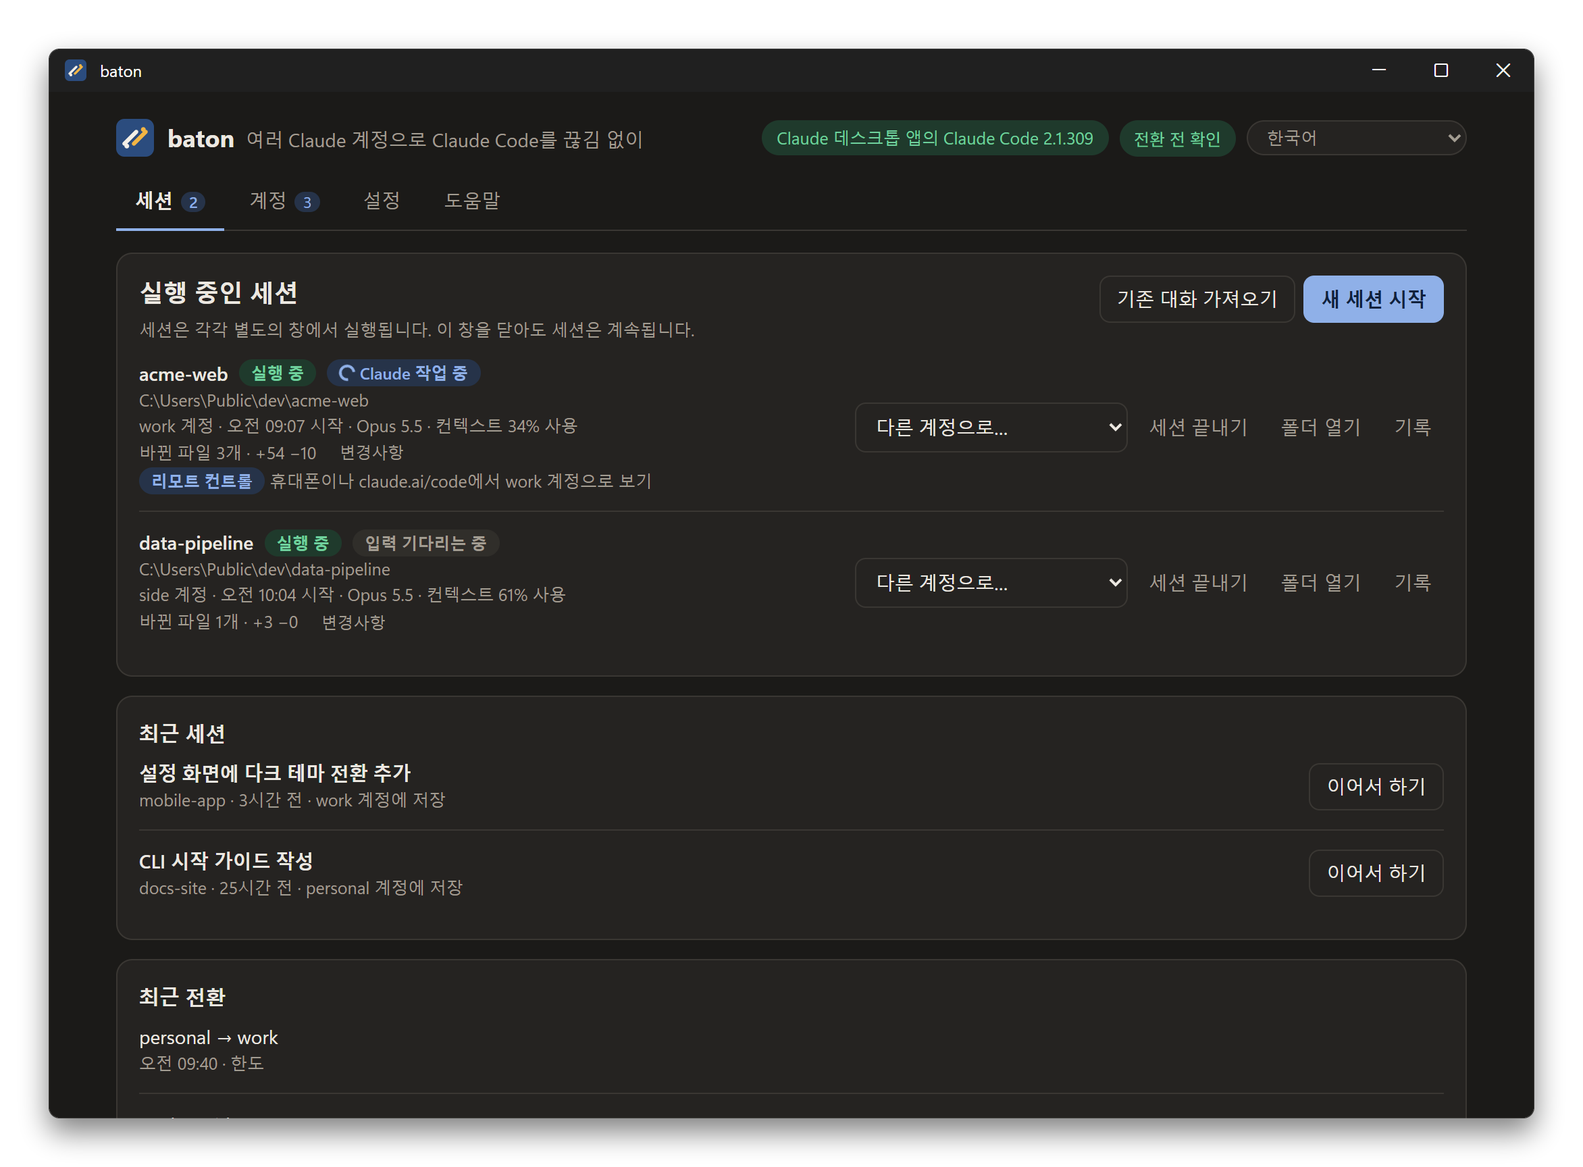
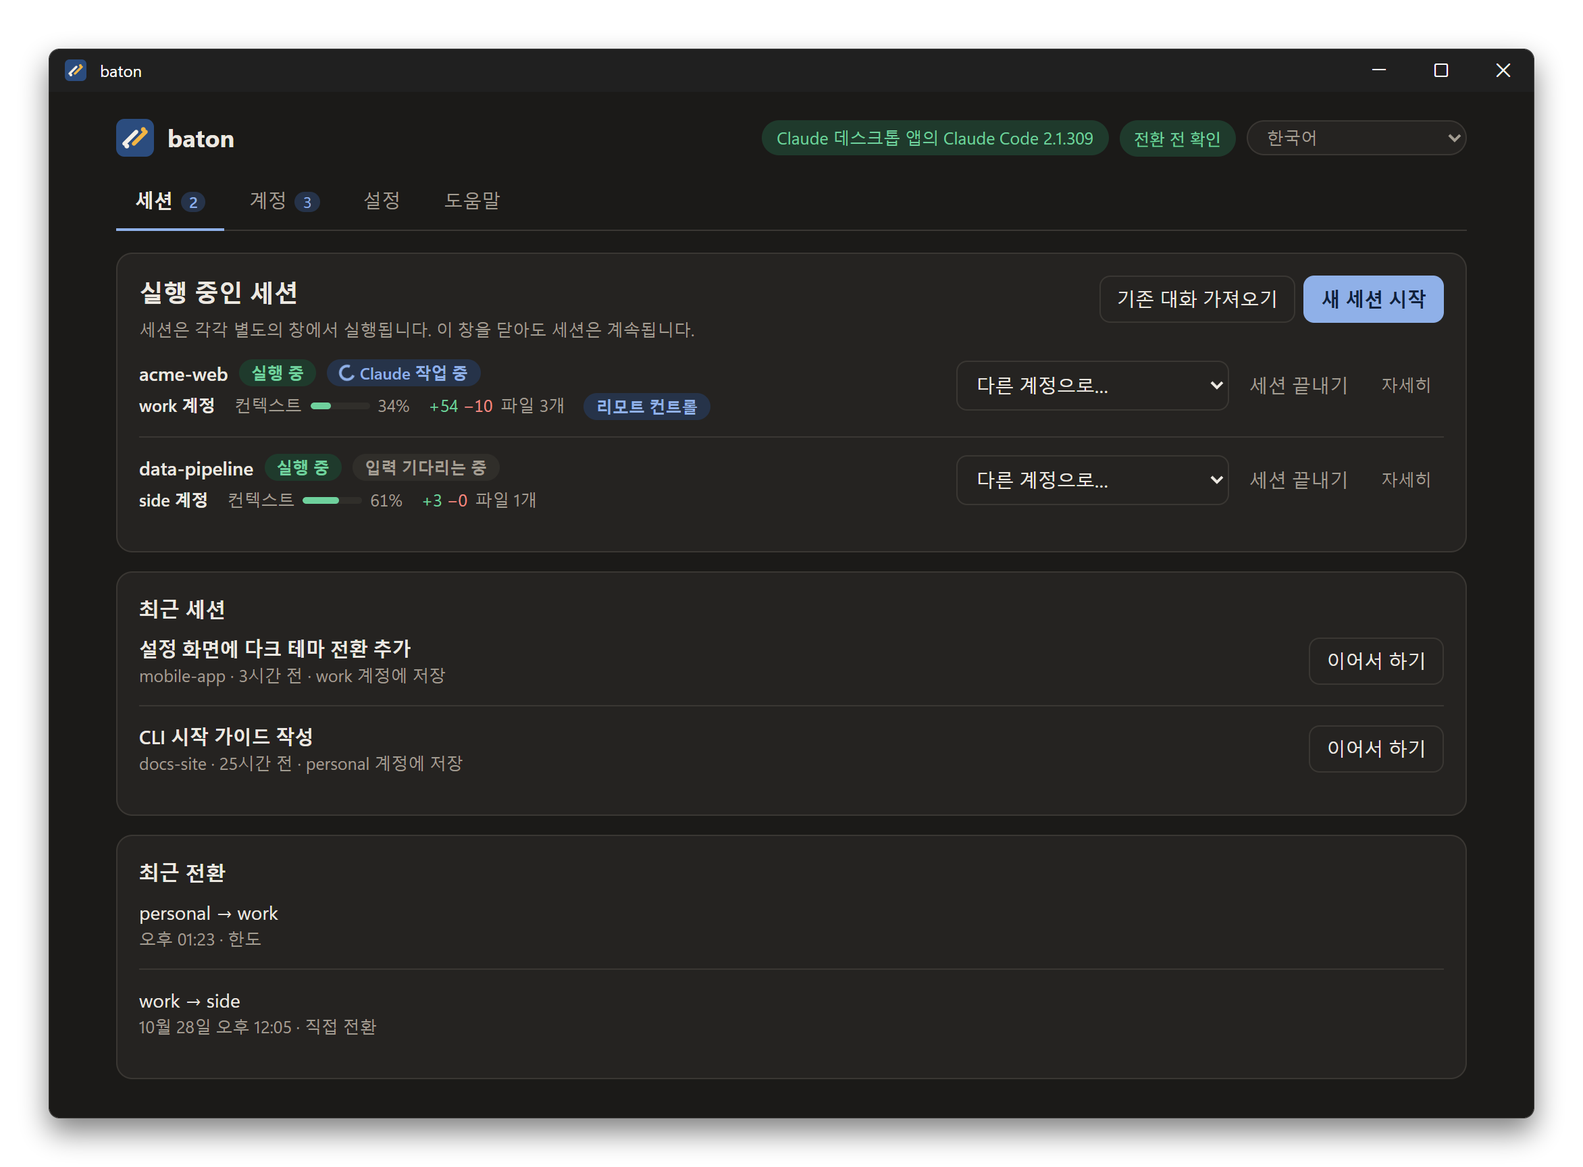
baton 0.5.2: interface update

diff --git a/internal/gui/web/app.js b/internal/gui/web/app.js
@@ -4,7 +4,6 @@
 
 const T = {
   ko: {
-    tagline: '여러 Claude 계정으로 Claude Code를 끊김 없이',
     tab_sessions: '세션', tab_accounts: '계정', tab_settings: '설정', tab_help: '도움말',
     claude_desktop: 'Claude 데스크톱 앱의 Claude Code {v}', claude_cli: 'Claude Code {v}', claude_checking: 'Claude Code 확인 중…',
     claude_missing: 'Claude Code 없음',
@@ -34,11 +33,11 @@ const T = {
     // session details
     cl_busy: 'Claude 작업 중', cl_idle: '입력 기다리는 중', cl_waiting: '세션 창에서 확인 필요',
     cl_waiting_hint: '세션 창에서 답해야 계속됩니다: {w}', ctx: '컨텍스트 {p}% 사용',
-    ch_none: '바뀐 파일 없음', ch_n: '바뀐 파일 {n}개 · +{a} −{r}', ch_n1: '바뀐 파일 1개 · +{a} −{r}', ch_btn: '변경사항', ch_title: '{f}의 변경사항',
+    ch_none: '바뀐 파일 없음', ch_files: '파일 {n}개', ch_files1: '파일 1개', ch_btn: '변경사항', ch_title: '{f}의 변경사항',
     ch_norepo: 'git 저장소가 아닌 폴더라 변경사항을 볼 수 없습니다.', ch_nogit: 'git을 찾지 못했습니다. Git for Windows를 설치하면 변경사항을 볼 수 있습니다.',
     ch_note: '마지막 커밋 이후 이 폴더에서 바뀐 파일입니다(커밋하지 않은 것, 새 파일 포함).', ch_loading: '변경사항을 읽는 중…', ch_error: 'git이 변경사항을 읽지 못했습니다: {e}',
     gs_modified: '수정', gs_added: '추가', gs_deleted: '삭제', gs_renamed: '이름 바뀜', gs_untracked: '새 파일', gs_conflict: '충돌',
-    rc_on: '리모트 컨트롤', rc_short: '휴대폰이나 claude.ai/code에서 {a} 계정으로 보기', rc_where: '휴대폰의 Claude 앱이나 claude.ai/code에서 {a} 계정으로 로그인하면 이 세션이 보입니다. 계정이 바뀌면 바뀐 계정에서 보입니다.',
+    rc_on: '리모트 컨트롤', details_more: '자세히', details_less: '접기', d_path: '폴더', d_started: '시작', d_changes: '변경', ctx_short: '컨텍스트', rc_where: '휴대폰의 Claude 앱이나 claude.ai/code에서 {a} 계정으로 로그인하면 이 세션이 보입니다. 계정이 바뀌면 바뀐 계정에서 보입니다.',
     start_rc: '리모트 컨트롤 켜기', start_rc_hint: '휴대폰의 Claude 앱이나 claude.ai/code에서 이 세션을 보고 이어서 쓸 수 있습니다. 세션이 실행 중인 계정으로 로그인해야 보이고, 계정이 바뀌면 그 계정에서 다시 켜집니다.',
     set_rc: '새 세션에서 리모트 컨트롤 켜기를 기본으로',
     trust_q: '이 폴더를 신뢰하나요?', trust_body: 'Claude Code가 이 폴더의 파일을 읽고 고치고 명령을 실행할 수 있게 됩니다. 믿을 수 있는 폴더일 때만 체크하세요.',
@@ -210,7 +209,6 @@ const T = {
     ago_now: '방금', ago_min: '{n}분 전', ago_hour: '{n}시간 전', ago_day: '{n}일 전',
   },
   en: {
-    tagline: 'Keep Claude Code going across your Claude accounts',
     tab_sessions: 'Sessions', tab_accounts: 'Accounts', tab_settings: 'Settings', tab_help: 'Help',
     claude_desktop: 'Claude Code {v} from the Claude desktop app', claude_cli: 'Claude Code {v}', claude_checking: 'Checking Claude Code…',
     claude_missing: 'Claude Code not found',
@@ -238,11 +236,11 @@ const T = {
     recent_sessions: 'Recent sessions', recent_sessions_none: 'Ended sessions show up here.', continue_btn: 'Continue',
     cl_busy: 'Claude is working', cl_idle: 'Waiting for you', cl_waiting: 'Needs an answer in the session window',
     cl_waiting_hint: 'Answer in the session window to go on: {w}', ctx: 'context {p}% used',
-    ch_none: 'No changed files', ch_n: '{n} changed files · +{a} −{r}', ch_n1: '1 changed file · +{a} −{r}', ch_btn: 'Changes', ch_title: 'Changes in {f}',
+    ch_none: 'No changed files', ch_files: '{n} files', ch_files1: '1 file', ch_btn: 'Changes', ch_title: 'Changes in {f}',
     ch_norepo: 'This folder is not a git repository, so there are no changes to show.', ch_nogit: 'git was not found. Install Git for Windows to see changes.',
     ch_note: 'Files changed in this folder since the last commit (uncommitted work, new files included).', ch_loading: 'Reading changes…', ch_error: 'git could not read the changes: {e}',
     gs_modified: 'modified', gs_added: 'added', gs_deleted: 'deleted', gs_renamed: 'renamed', gs_untracked: 'new', gs_conflict: 'conflict',
-    rc_on: 'Remote Control', rc_short: 'see it on your phone or claude.ai/code as {a}', rc_where: 'Sign in to the Claude app on your phone or to claude.ai/code with the account {a} to see this session. After a switch it shows on the new account.',
+    rc_on: 'Remote Control', details_more: 'Details', details_less: 'Less', d_path: 'Folder', d_started: 'Started', d_changes: 'Changes', ctx_short: 'Context', rc_where: 'Sign in to the Claude app on your phone or to claude.ai/code with the account {a} to see this session. After a switch it shows on the new account.',
     start_rc: 'Turn on Remote Control', start_rc_hint: 'See and continue this session from the Claude app on your phone or claude.ai/code. It shows for the account the session runs on, and comes back on for the next account after a switch.',
     set_rc: 'Turn on Remote Control for new sessions by default',
     trust_q: 'Do you trust this folder?', trust_body: 'Claude Code will be able to read and change files in it and run commands. Tick only for a folder you trust.',
@@ -407,7 +405,7 @@ const T = {
 };
 
 const S = { state: null, lang: 'ko', tab: null, lastJSON: '', onboardingShown: false, mainDirty: false,
-  ui: { doctorOut: null, doctorOk: true, doctorRunning: false, advancedOpen: false, signinPrivate: false, dismissed: {} } };
+  ui: { doctorOut: null, doctorOk: true, doctorRunning: false, advancedOpen: false, signinPrivate: false, dismissed: {}, runOpen: {} } };
 
 function t(key, vars) {
   let s = (T[S.lang] && T[S.lang][key]) ?? T.en[key] ?? key;
@@ -547,7 +545,6 @@ window.addEventListener('pagehide', () => {
 function render() {
   const st = S.state;
   if (!st) return;
-  document.getElementById('tagline').textContent = t('tagline');
   renderTop(st);
   renderTabs(st);
   renderBanners(st);
@@ -718,23 +715,74 @@ function runRow(st, r) {
   sel.classList.add('auto-w');
   const canSwitch = (r.state === 'running' || r.state === 'stopping' || waiting) && (others.length > 0 || retry);
   const asking = r.state === 'asking';
-  return h('div', { class: 'row' },
+  // At a glance: where, what state, which account, how full the context is,
+  // what changed and Remote Control. The rest waits behind "Details".
+  const open = !!S.ui.runOpen[r.run_id];
+  const toggle = h('button', { class: 'btn ghost details-btn', 'aria-expanded': String(open), text: open ? t('details_less') : t('details_more'),
+    onclick: () => { S.ui.runOpen[r.run_id] = !open; render(); } });
+  const facts = [
+    h('span', { class: 'fact strong', text: r.account ? t('run_on', { a: r.account }) : t('run_on_none') }),
+    r.context != null ? contextFact(r.context) : null,
+    changesFact(r),
+    r.remote_control ? h('span', { class: 'pill info', title: t('rc_where', { a: r.account || '' }), text: t('rc_on') }) : null,
+  ].filter(Boolean);
+  return h('div', { class: 'row run' + (open ? ' open' : '') },
     h('div', { class: 'grow' },
-      h('div', { class: 'title' }, baseName(r.cwd), runState(r), claudeState(r)),
-      h('div', { class: 'sub', title: r.cwd, text: `${r.cwd}` }),
-      h('div', { class: 'sub', text: [r.account ? t('run_on', { a: r.account }) : t('run_on_none'), t('run_since', { t: clock(r.started) }),
-        r.model, r.context != null ? t('ctx', { p: Math.round(r.context) }) : ''].filter(Boolean).join(' · ') }),
-      r.claude === 'waiting' && r.waiting_for ? h('div', { class: 'small', text: t('cl_waiting_hint', { w: r.waiting_for }) }) : null,
-      changesLine(r),
-      r.remote_control ? h('div', { class: 'sub', title: t('rc_where', { a: r.account || '' }) },
-        h('span', { class: 'pill info', text: t('rc_on') }), ' ', r.account ? t('rc_short', { a: r.account }) : '') : null,
-      asking ? h('div', { class: 'small', text: t('asking_hint') + ' ' + t('asking_stop_hint') }) : null,
-      waiting ? h('div', { class: 'small', text: r.account ? t('waiting_hint') : t('waiting_first') }) : null),
+      h('div', { class: 'title' }, h('span', { title: r.cwd, text: baseName(r.cwd) }), runState(r), claudeState(r)),
+      h('div', { class: 'facts' }, facts),
+      r.claude === 'waiting' && r.waiting_for ? h('div', { class: 'hint', text: t('cl_waiting_hint', { w: r.waiting_for }) }) : null,
+      asking ? h('div', { class: 'hint', text: t('asking_hint') + ' ' + t('asking_stop_hint') }) : null,
+      waiting ? h('div', { class: 'hint', text: r.account ? t('waiting_hint') : t('waiting_first') }) : null,
+      open ? runDetails(r) : null),
     h('div', { class: 'actions' }, canSwitch ? sel : null,
       // While the session window asks, baton reads only that window.
       asking || r.state === 'ending' ? null : h('button', { class: 'btn ghost danger', text: t('stop_btn'), onclick: () => confirmStop(r) }),
-      h('button', { class: 'btn ghost', text: t('open_folder'), onclick: () => api('open', { what: 'folder', run_id: r.run_id }).catch(showError) }),
-      h('button', { class: 'btn ghost', text: t('open_log'), onclick: () => api('open', { what: 'run', run_id: r.run_id }).catch(showError) })));
+      toggle));
+}
+
+// runDetails is what a session row shows once opened.
+function runDetails(r) {
+  const c = r.changes;
+  const line = (label, ...value) => h('div', { class: 'detail' }, h('span', { class: 'detail-label', text: label }), h('span', { class: 'detail-value' }, ...value));
+  return h('div', { class: 'details' },
+    line(t('d_path'), h('span', { class: 'mono', text: r.cwd })),
+    line(t('d_started'), clock(r.started) + (r.model ? ' · ' + r.model : '')),
+    c && c.error && c.error !== 'no_git' ? line(t('d_changes'), h('span', { class: 'err-inline', text: t('ch_error', { e: c.error }) })) : null,
+    c && c.repo && !c.error ? line(t('d_changes'), c.files ? changeCount(c.files, c.added, c.removed) : t('ch_none')) : null,
+    r.remote_control ? line(t('rc_on'), t('rc_where', { a: r.account || '' })) : null,
+    h('div', { class: 'actions start' },
+      c && c.repo && c.files ? h('button', { class: 'btn small-btn', text: t('ch_btn'), onclick: () => openChanges(r) }) : null,
+      h('button', { class: 'btn small-btn', text: t('open_folder'), onclick: () => api('open', { what: 'folder', run_id: r.run_id }).catch(showError) }),
+      h('button', { class: 'btn small-btn', text: t('open_log'), onclick: () => api('open', { what: 'run', run_id: r.run_id }).catch(showError) })));
+}
+
+// contextFact: how full the session's context window is, as a small meter.
+function contextFact(p) {
+  const pct = Math.max(0, Math.min(100, p));
+  const fill = h('span', { class: 'fill ' + (pct >= 90 ? 'bad' : pct >= 70 ? 'warn' : 'ok') });
+  fill.style.width = pct + '%'; // CSSOM: the page's CSP allows no inline style attributes
+  return h('span', { class: 'fact', title: t('ctx', { p: Math.round(pct) }) }, t('ctx_short'),
+    h('span', { class: 'meter mini', role: 'meter', 'aria-valuemin': '0', 'aria-valuemax': '100', 'aria-valuenow': String(Math.round(pct)), 'aria-label': t('ctx_short') }, fill),
+    h('span', { class: 'nums', text: Math.round(pct) + '%' }));
+}
+
+// changeNums: lines added in green, removed in red.
+function changeNums(added, removed) {
+  return h('span', { class: 'nums' }, added >= 0 ? h('span', { class: 'plus', text: '+' + added }) : null, ' ',
+    removed >= 0 ? h('span', { class: 'minus', text: '−' + removed }) : null);
+}
+
+function changeCount(n, added, removed) {
+  return h('span', {}, t(n === 1 ? 'ch_files1' : 'ch_files', { n }), ' ', changeNums(added, removed));
+}
+
+// changesFact: the folder's uncommitted changes; a click lists them.
+function changesFact(r) {
+  const c = r.changes;
+  if (!c || c.error || !c.repo) return null;
+  if (!c.files) return h('span', { class: 'fact', text: t('ch_none') });
+  return h('button', { class: 'fact link', title: t('ch_btn'), onclick: () => openChanges(r) }, changeNums(c.added, c.removed),
+    h('span', { class: 'muted', text: t(c.files === 1 ? 'ch_files1' : 'ch_files', { n: c.files }) }));
 }
 
 // claudeState: what Claude Code itself is doing in the session.
@@ -743,14 +791,6 @@ function claudeState(r) {
   if (r.claude === 'busy') return h('span', { class: 'pill info' }, h('span', { class: 'spin' }), ' ', t('cl_busy'));
   if (r.claude === 'waiting') return h('span', { class: 'pill warn', text: t('cl_waiting') });
   return h('span', { class: 'pill off', text: t('cl_idle') });
-}
-
-function changesLine(r) {
-  const c = r.changes;
-  if (!c || c.error === 'no_git' || (!c.repo && !c.error)) return null;
-  const text = c.error ? t('ch_error', { e: c.error }) : c.files ? t(c.files === 1 ? 'ch_n1' : 'ch_n', { n: c.files, a: c.added, r: c.removed }) : t('ch_none');
-  return h('div', { class: 'sub changes' }, h('span', { text }),
-    c.repo && c.files ? h('button', { class: 'btn ghost small-btn', text: t('ch_btn'), onclick: () => openChanges(r) }) : null);
 }
 
 // openChanges lists a session's changed files, the way the desktop app's
@@ -766,12 +806,11 @@ async function openChanges(r) {
   if (!c.repo) { body.replaceChildren(h('p', { class: 'muted', text: t('ch_norepo') })); return; }
   if (!c.files.length) { body.replaceChildren(h('p', { class: 'muted', text: t('ch_none') })); return; }
   const cls = { modified: 'info', added: 'ok', untracked: 'ok', deleted: 'bad', renamed: 'info', conflict: 'warn' };
-  body.replaceChildren(h('p', { class: 'small', text: t(c.files.length === 1 ? 'ch_n1' : 'ch_n', { n: c.files.length, a: c.added, r: c.removed }) }),
+  body.replaceChildren(h('p', { class: 'small' }, changeCount(c.files.length, c.added, c.removed)),
     h('div', { class: 'list tall' }, c.files.map((f) => h('div', { class: 'item change' },
       h('span', { class: 'pill ' + (cls[f.status] || 'off'), text: t('gs_' + f.status) }),
       h('span', { class: 'grow mono', text: f.path }),
-      h('span', { class: 'small nums' }, f.added >= 0 ? h('span', { class: 'plus', text: '+' + f.added }) : null, ' ',
-        f.removed >= 0 ? h('span', { class: 'minus', text: '−' + f.removed }) : null)))));
+      h('span', { class: 'small' }, changeNums(f.added, f.removed))))));
 }
 
 function confirmStop(r) {

diff --git a/internal/gui/web/app.css b/internal/gui/web/app.css
@@ -205,7 +205,6 @@ details > summary { cursor: pointer; font-weight: 600; }
 .meter .fill { position: absolute; left: 0; top: 0; bottom: 0; border-radius: 4px; background: var(--ok); }
 .meter .fill.warn { background: var(--warn); }
 .meter .fill.bad { background: var(--bad); }
-.sub.changes { display: flex; align-items: center; gap: 8px; }
 button.btn.small-btn { padding: 1px 8px; font-size: 12px; }
 .list .item.change { align-items: center; }
 .nums { white-space: nowrap; font-variant-numeric: tabular-nums; }
@@ -213,3 +212,21 @@ button.btn.small-btn { padding: 1px 8px; font-size: 12px; }
 .nums .minus { color: var(--bad); }
 .tip.warn-tip { border-left: 3px solid var(--warn); }
 .tip.ok-tip { background: var(--ok-soft); }
+/* A session row: one line of facts; the rest opens with "Details". */
+.row.run { align-items: flex-start; flex-wrap: wrap; row-gap: 8px; }
+.row.run > .grow { flex: 1 1 320px; }
+.row.run > .actions { margin-left: auto; padding-top: 1px; }
+.facts { display: flex; flex-wrap: wrap; align-items: center; gap: 4px 14px; margin-top: 4px; font-size: 12.5px; color: var(--muted); }
+.fact { display: inline-flex; align-items: center; gap: 6px; white-space: nowrap; }
+.fact.strong { color: var(--text); font-weight: 600; }
+button.fact.link { font: inherit; color: inherit; background: none; border: 0; padding: 0; cursor: pointer; border-radius: 4px; }
+button.fact.link:hover .muted { color: var(--text); text-decoration: underline; }
+.meter.mini { display: inline-block; width: 44px; height: 5px; }
+.hint { font-size: 12.5px; margin-top: 6px; padding: 4px 10px; border-radius: 6px; background: var(--warn-soft); color: var(--text); }
+.details { margin-top: 10px; padding: 10px 12px; border-radius: 8px; background: var(--off-soft); font-size: 12.5px; display: grid; gap: 6px; }
+.detail { display: grid; grid-template-columns: 7em 1fr; gap: 8px; align-items: baseline; }
+.detail-label { color: var(--muted); }
+.detail-value { min-width: 0; }
+.details .actions { margin-top: 2px; }
+button.btn.details-btn { font-size: 12.5px; }
+.err-inline { color: var(--bad); }

diff --git a/internal/gui/web/index.html b/internal/gui/web/index.html
@@ -11,7 +11,7 @@
 <body>
 <div id="app" class="app">
   <header class="top">
-    <div class="brand"><img src="/icon.svg" alt="" width="28" height="28"><div><b>baton</b><span id="tagline"></span></div></div>
+    <div class="brand"><img src="/icon.svg" alt="" width="28" height="28"><b>baton</b></div>
     <div class="top-right" id="topbar"></div>
   </header>
   <nav class="tabs" id="tabs" role="tablist"></nav>

diff --git a/cmd/baton/main.go b/cmd/baton/main.go
@@ -19,7 +19,7 @@ import (
 )
 
 // version is set at build time: -ldflags "-X main.version=..."
-var version = "0.5.1-dev"
+var version = "0.5.2-dev"
 
 const usageText = `baton - continue a Claude Code session on your other accounts when one hits its usage limit
 

diff --git a/README.ko.md b/README.ko.md
@@ -8,7 +8,7 @@
 쓰던 계정이 사용 한도에 걸리면, baton이 로그인해 둔 다음 계정에서 *같은 대화*를 이어 갑니다.
 내용을 복사하거나 처음부터 다시 설명할 필요가 없습니다.
 
-[![Release](https://img.shields.io/badge/release-v0.5.1-2b4c7e)](../../releases/latest)
+[![Release](https://img.shields.io/badge/release-v0.5.2-2b4c7e)](../../releases/latest)
 ![Windows 10 | 11](https://img.shields.io/badge/Windows-10%20%7C%2011-0078D6)
 ![x64 | arm64](https://img.shields.io/badge/arch-x64%20%7C%20arm64-555)
 ![Go](https://img.shields.io/badge/Go-1.27-00ADD8?logo=go&logoColor=white)
@@ -153,7 +153,7 @@ sequenceDiagram
 들어 있습니다. 받은 파일은 `checksums.txt`와 비교해 확인할 수 있습니다.
 
 ```bash
-Get-FileHash baton_0.5.1_windows_amd64.zip -Algorithm SHA256
+Get-FileHash baton_0.5.2_windows_amd64.zip -Algorithm SHA256
 ```
 
 창의 **도움말 → 시작 메뉴에 설치**는 baton을 `%LOCALAPPDATA%\Programs\baton`에 복사합니다. 명령줄을
@@ -190,7 +190,7 @@ go build -trimpath -ldflags "-H windowsgui -X main.guiBuild=1" -o bin/baton-app.
 릴리스할 때는 먼저 `docs/releases/v<버전>.md`에 릴리스 노트를 쓰고 아래 명령을 실행합니다. zip(x64와 arm64)과 `checksums.txt`, 그리고 노트에 체크섬을 붙인 릴리스 화면용 `RELEASE_NOTES.md`를 만듭니다. 이때 `dist\`에는 그 파일들만 남습니다.
 
 ```bash
-powershell -NoProfile -ExecutionPolicy Bypass -File scripts\build.ps1 -Version 0.5.1
+powershell -NoProfile -ExecutionPolicy Bypass -File scripts\build.ps1 -Version 0.5.2
 ```
 
 아이콘, 매니페스트, 버전 리소스는 `go run ./tools/winres -version <v>`로 다시 만듭니다.

diff --git a/docs/releases/v0.5.2.md b/docs/releases/v0.5.2.md
@@ -1,0 +1,27 @@
+The Sessions tab shows less at once, and what changed is easier to read.
+
+## Changed
+
+- **A calmer session row.** Each running session shows its folder and state, then one line
+  with the account, a small context meter, the changed lines and Remote Control. The full path,
+  start time, model, Remote Control's sign-in hint and the *Open folder* and *Log* buttons are
+  under **Details**, which opens and closes per session.
+- **Colored changes.** Added lines are green and removed lines are red, in the session row and
+  in the changes list. Clicking the changed lines in a row opens that list.
+- **Shorter title bar.** The tagline next to "baton" is gone.
+- A narrow window puts a session's buttons under it instead of squeezing its text.
+
+---
+
+## 한국어
+
+세션 탭에 한 번에 보이는 정보를 줄이고, 바뀐 내용을 더 읽기 쉽게 했습니다.
+
+**바뀐 점**
+- **간결해진 세션 줄.** 실행 중인 세션마다 폴더와 상태, 그리고 계정, 작은 컨텍스트 막대, 바뀐 줄 수,
+  리모트 컨트롤을 한 줄로 보여 줍니다. 전체 경로, 시작 시각, 모델, 리모트 컨트롤 로그인 안내, *폴더 열기*와
+  *기록* 버튼은 세션마다 열고 닫는 **자세히**에 들어 있습니다.
+- **색으로 보는 변경사항.** 추가된 줄은 초록색, 지운 줄은 빨간색으로 세션 줄과 변경사항 목록에 보여 줍니다.
+  세션 줄의 바뀐 줄 수를 누르면 그 목록이 열립니다.
+- **짧아진 제목 표시줄.** "baton" 옆의 소개 문구를 없앴습니다.
+- 창이 좁으면 세션의 버튼을 글자 밑으로 내려서 글자가 눌리지 않게 했습니다.

diff --git a/README.md b/README.md
@@ -8,7 +8,7 @@
 When the account in use hits its usage limit, baton continues the *same conversation*
 on your next signed-in account. You don't need to copy anything or explain it again.
 
-[![Release](https://img.shields.io/badge/release-v0.5.1-2b4c7e)](../../releases/latest)
+[![Release](https://img.shields.io/badge/release-v0.5.2-2b4c7e)](../../releases/latest)
 ![Windows 10 | 11](https://img.shields.io/badge/Windows-10%20%7C%2011-0078D6)
 ![x64 | arm64](https://img.shields.io/badge/arch-x64%20%7C%20arm64-555)
 ![Go](https://img.shields.io/badge/Go-1.27-00ADD8?logo=go&logoColor=white)
@@ -174,7 +174,7 @@ both in the same folder), the READMEs and the licenses. You can check a download
 `checksums.txt`:
 
 ```bash
-Get-FileHash baton_0.5.1_windows_amd64.zip -Algorithm SHA256
+Get-FileHash baton_0.5.2_windows_amd64.zip -Algorithm SHA256
 ```
 
 **Help → Install to the Start menu** in the window copies baton to
@@ -213,7 +213,7 @@ go build -trimpath -ldflags "-H windowsgui -X main.guiBuild=1" -o bin/baton-app.
 For a release, write its notes in `docs/releases/v<version>.md` first, then run the command below. It builds the zips (x64 and arm64) and `checksums.txt`, plus `RELEASE_NOTES.md`, the notes with the checksums for the release page. `dist\` then holds only those:
 
 ```bash
-powershell -NoProfile -ExecutionPolicy Bypass -File scripts\build.ps1 -Version 0.5.1
+powershell -NoProfile -ExecutionPolicy Bypass -File scripts\build.ps1 -Version 0.5.2
 ```
 
 `go run ./tools/winres -version <v>` regenerates the icon, manifest and version resources.
